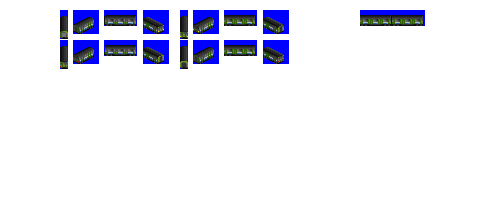
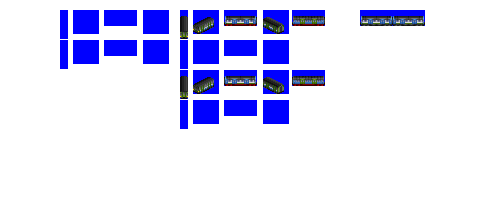
Change: make metro pax units 1px less tall

diff --git a/src/vehicles/fleet.py b/src/vehicles/fleet.py
@@ -1,24 +1,19 @@
-from train import PassengerEngineConsist, MetroUnit
+from train import PassengerEngineMetroConsist, MetroUnit
 
-consist = PassengerEngineConsist(id='fleet',
-                                 base_numeric_id=210,
-                                 name='Fleet',
-                                 role='pax_metro',
-                                 track_type='METRO',
-                                 power=1100,
-                                 type_base_buy_cost_points=80,  # dibble buy cost for game balance
-                                 gen=5,
-                                 intro_date_offset=10)  # introduce later than gen epoch by design
+consist = PassengerEngineMetroConsist(id='fleet',
+                                      base_numeric_id=210,
+                                      name='Fleet',
+                                      role='pax_metro',
+                                      track_type='METRO',
+                                      power=1100,
+                                      type_base_buy_cost_points=80,  # dibble buy cost for game balance
+                                      gen=5,
+                                      intro_date_offset=10)  # introduce later than gen epoch by design
 
 # should be 4 short units, not 2 long but eh
 consist.add_unit(type=MetroUnit,
                  weight=30,
                  vehicle_length=8,
                  capacity=200,
-                 spriterow_num=0)
-
-consist.add_unit(type=MetroUnit,
-                 weight=30,
-                 vehicle_length=8,
-                 capacity=200,
-                 spriterow_num=1)
+                 chassis='railcar',
+                 repeat=2)

diff --git a/src/vehicles/westbourne.py b/src/vehicles/westbourne.py
@@ -1,23 +1,18 @@
-from train import PassengerEngineConsist, MetroUnit
+from train import PassengerEngineMetroConsist, MetroUnit
 
-consist = PassengerEngineConsist(id='westbourne',
-                                 base_numeric_id=360,
-                                 name='Westbourne',
-                                 role='pax_metro',
-                                 track_type='METRO',
-                                 power=900,
-                                 type_base_buy_cost_points=60,  # dibble buy cost for game balance
-                                 gen=3,
-                                 intro_date_offset=20)  # introduce later than gen epoch by design
-
-consist.add_unit(type=MetroUnit,
-                 weight=40,
-                 vehicle_length=8,
-                 capacity=160,
-                 spriterow_num=0)
+consist = PassengerEngineMetroConsist(id='westbourne',
+                                      base_numeric_id=360,
+                                      name='Westbourne',
+                                      role='pax_metro',
+                                      track_type='METRO',
+                                      power=900,
+                                      type_base_buy_cost_points=60,  # dibble buy cost for game balance
+                                      gen=3,
+                                      intro_date_offset=20)  # introduce later than gen epoch by design
 
 consist.add_unit(type=MetroUnit,
                  weight=40,
                  vehicle_length=8,
                  capacity=160,
-                 spriterow_num=1)
+                 chassis='railcar',
+                 repeat=2)

diff --git a/src/vehicles/serpentine.py b/src/vehicles/serpentine.py
@@ -9,11 +9,10 @@ consist = PassengerEngineMetroConsist(id='serpentine',
                                       type_base_buy_cost_points=40,  # dibble buy cost for game balance
                                       gen=2)  # no intro_date_offset for this unit by design
 
-# should be 4 units not 2, would look nicer short
+# should be 4 units not 2, would look nicer short, but eh, painting
 consist.add_unit(type=MetroUnit,
                  weight=40,
                  vehicle_length=8,
                  capacity=120,
-                 spriterow_num=0,
                  chassis='railcar',
                  repeat=2)
